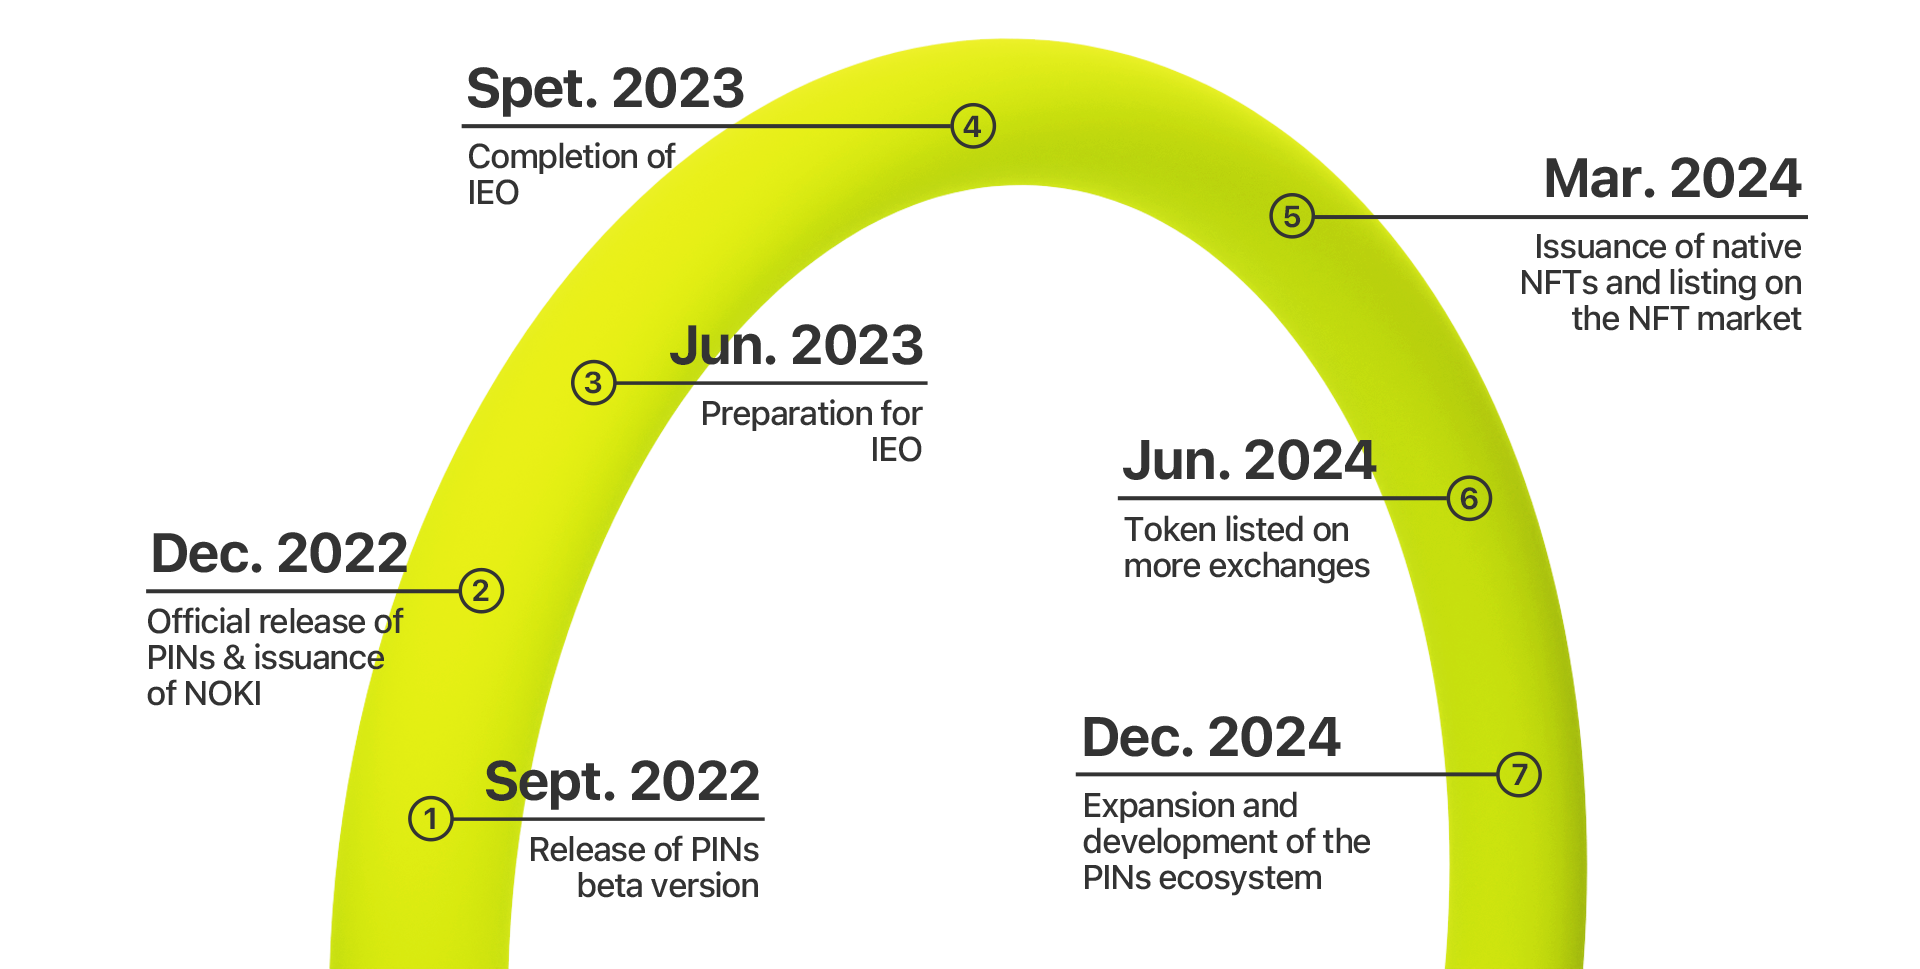
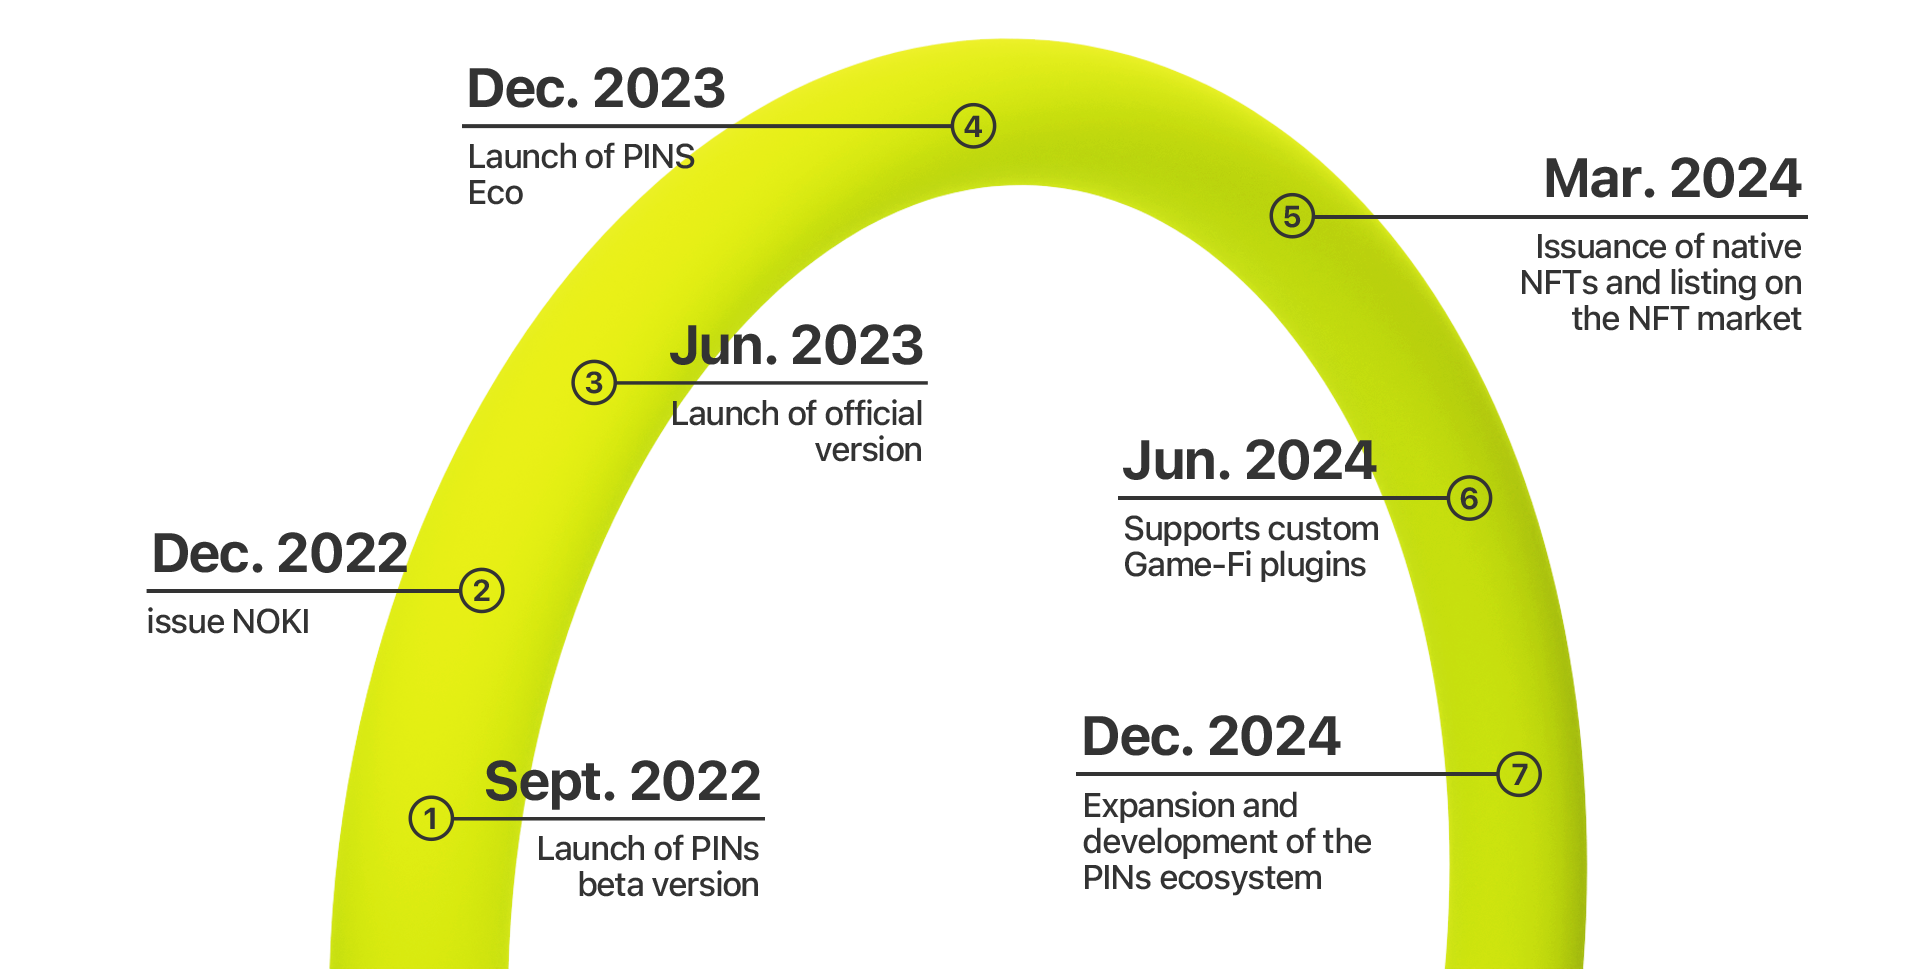
update

diff --git a/index.html b/index.html
@@ -47,7 +47,7 @@
           <li><a class="nav-link scrollto active" href="#hero">Home</a></li>
           <li><a class="nav-link scrollto" href="#about">About</a></li>
           <li><a class="nav-link scrollto" href="#features">Features</a></li>
-          <li><a class="nav-link scrollto" href="#ieo">IEO</a></li>
+          <li><a class="nav-link scrollto" href="#ieo">ECOSYSTEM</a></li>
           <li><a class="nav-link scrollto " href="#roadmap">Roadmap</a></li>
           <li><a class="nav-link scrollto" href="https://docs.pins.network" target="_blank">Docs</a></li>
         </ul>
@@ -171,19 +171,19 @@
           <div>
             <div>
               <div class="pins-text">PINs</div>
-              <div class="ieo-title">IEO Rules</div>
+              <div class="ieo-title">Token（ERC20）</div>
             </div>
             <div class="ieo-text">
-              Lorem ipsum dolor sit amet, consectetur adioisc nel seo oc eilsmod temper indididuntir labore e dolore maona allouar enimadmnmveniamorem josum dolor sit amet. consectetu aaipiscing elrt, sed do elusmod tempor incidIOl
+              The PINS Token (ERC20) is the universal currency of the PINS world. It can be used to pay for NFT props and currency assets in different Verses, and invest in different Community DAOs to obtain returns, among other functions.
             </div>
           </div>
           <div>
             <div>
               <div class="pins-text">PINs</div>
-              <div class="ieo-title">Economic Model</div>
+              <div class="ieo-title">Ecosystem</div>
             </div>
             <div class="ieo-text">
-              Lorem ipsum dolor sit amet, consectetur adioisc nel seo oc eilsmod temper indididuntir labore e dolore maona allouar enimadmnmveniamorem josum dolor sit amet. consectetu aaipiscing elrt, sed do elusmod tempor incidIOl
+              PINS Ecosystem Each Verse can design its own Game-Fi game rules and economic mechanisms, issue its own currency and other NFT assets, and use them within the economic ecosystem.
             </div>
           </div>
 

diff --git a/assets/css/style.css b/assets/css/style.css
@@ -421,8 +421,9 @@ h6 {
   flex-direction: column;
   text-align: center;
   position: relative;
-  height: 55vh;
+  max-height: 55vh;
   padding-top: 100px;
+  min-height: 650px;
 }
 
 #hero h2 {
@@ -510,7 +511,8 @@ h6 {
 
 @media (max-width: 768px) {
   #hero .carousel-container {
-    height: 50vh;
+    max-height: 50vh;
+    min-height: 400px;
   }
 
   #hero h2 {
